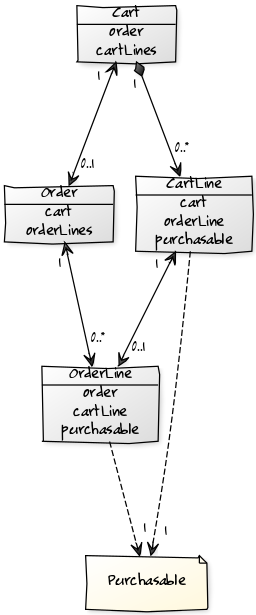
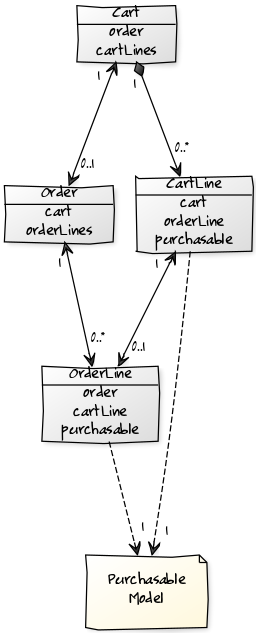
Updated docu book

Changed region(s): [[0.0, 0.0, 1.0, 1.0], [0.6562, 0.6179, 0.6875, 0.7106], [0.3438, 0.1854, 0.375, 0.2163]]

diff --git a/docs/book/product-architecture.md b/docs/book/product-architecture.md
@@ -9,8 +9,200 @@ where you will be able to modify the model as much as you need.
 
 ## Purchasable
 
+Because you should be able to add anything both a product or a variant in your
+cart, we created the interface `Purchasable`. A purchasable is an object (any)
+you can add into your cart.
+
+In Elcodi we have implemented two completed classes implementing this interface:
+Product and Variant. Both implementations are part of the Product component, and
+composes all the needed structure to maintain all kind of products and
+variations of this.
+
+## Product
+
+The main entity of this component. A product is what you are going to sell, no
+matter what it is and not taking in account variations of this. For example, our
+product could be a simple T-shirt. No color, no size, just a simple T-shirt.
+
+Each product contains all information related to that element, like price, some
+dimensions (all of them optional, of course), a description and a name, a SKU,
+the stock of that object, and some extra properties. All you need to make this 
+element unique enough.
+
+You can create a new Product like this.
+
+``` php
+use Elcodi\Component\Product\Entity\Product;
+
+$product = new Product();
+$product
+    ->setSku('123456789')
+    ->setStock(4)
+    ->setName('Strawberry cake')
+    ->setDescription('This is a strawberry cake');
+```
+
+Of course, the right way in Elcodi is always using factories instead of creating
+new instances by hand.
+
+``` php
+$product = $this
+    ->productFactory
+    ->create()
+    ->setName('Strawberry cake')
+    ->setDescription('This is a strawberry cake');
+```
+
+This service should have this dependency injection definition
+
+``` yaml
+services:
+    my_service:
+        class: My\Service\Namespace
+        arguments:
+            - @elcodi.factory.product
+```
+
+Some times our E-commerce implementation only requires this infrastructure. If
+you sell for example single cakes, then each cake is a product, and that should
+be enough. Don't over-engineer your domain and project too much.
+
+In other cases, for example if your e-commerce is selling some retail, then each
+Product will have some variations. Let's see what a variation is and how we can
+implement it in Elcodi.
+
 ## Variant
 
-## Attributes and Values
+A Variant is a simple variation of a Product. Returning to the example of
+T-shirts, maybe you want to sell the same T-shirt in several colors, several
+sizes and several logos behind it.
 
-##
+One option is having one single product per each combination, and that would be
+a good approach indeed, but then you have no way of controlling all products
+that belong to the same family. For example, if all variations have the same
+price then you should add it several times in several instances. As soon as this
+price changes, then you need to change it all around.
+
+Bad choice, right?
+
+If you have only one Product called T-shirt and you create the right structure
+for maintaining some Attributes and some Values, then you can create several
+Variants, each one containing one or more Values. Because a Variant is a
+Purchasable as well, then you can add them as well in your Cart.
+
+First of all, let's see how to create a variant, assuming we have the previous
+product created.
+
+``` php
+use Elcodi\Component\Product\Entity\Product;
+use Elcodi\Component\Product\Entity\Variant;
+
+$product = new Product();
+$product
+    ->setName('T-shirt, Dora the explorer')
+    ->setDescription('T-shirt of Dora');
+    
+$variant = new Variant
+$variant
+    ->setSku('12341234')
+    ->setStock(10)
+    ->setName('Blue XL T-shirt with the logo')
+    ->setProduct($product);
+```
+
+Of course, the right way in Elcodi is always using factories instead of creating
+new instances by hand.
+
+``` php
+$product = $this
+    ->productFactory
+    ->create()
+    ->setName('T-shirt, Dora the explorer')
+    ->setDescription('T-shirt of Dora');
+    
+$variant = $this
+    ->variantFactory
+    ->create()
+    ->setSku('12341234')
+    ->setStock(10)
+    ->setName('Blue XL T-shirt with the logo')
+    ->setProduct($product);
+```
+
+This service should have this dependency injection definition
+
+``` yaml
+services:
+    my_service:
+        class: My\Service\Namespace
+        arguments:
+            - @elcodi.factory.product
+            - @elcodi.factory.variant
+```
+
+In fact, that code is not useful at all, so none of these variants have
+attributes. Next step, creating a map of configurations for these Variants.
+
+## Attributes
+
+A variant is composed by different attribute values. Let's check it out by using
+the last example. T-shirt of Dora the explorer is available in colors blue, red
+and green. Each one can be purchased in several sizes: S, M and L.
+
+Each Variant is a Product and one of each attribute, called Value. So, there is
+one Variant that will have internally the Value blue of the Attribute color, and
+the Value S of the Attribute Size.
+
+Assuming the piece of code we did before about product and variant...
+
+``` php
+$product = //;
+$variant = //;
+
+$attribute = $this
+    ->attributeFactory
+    ->create()
+    ->setName('size');
+    
+$value = $this
+    ->valueFactory
+    ->create()
+    ->setValue('S')
+    ->setAttribute($attribute);
+
+$variant->setValue($value);
+```
+
+As you can see, the relation is done between the Attribute and the Value, but
+because one Value can only have one Attribute, then the relation is done as well
+between the Variant and the Attribute.
+
+``` php
+$attribute = $variant
+    ->getValue()
+    ->getAttribute();
+```
+
+## Manufacturer
+
+A product (and because a Product is always the master piece of any purchasable)
+can have a manufacturer. The relation is easy and simple indeed, so there is no
+much need of explaining how to work with this entity.
+
+``` php
+$product = //;
+
+$manufacturer = $this
+    ->manufacturerFactory
+    ->create()
+    ->setName('Levis');
+    
+$product->setManufacturer($manufacturer);
+```
+
+## Categories
+
+There is an entire chapter for that in Elcodi's book. Please, read it carefully
+in order to be able to work properly with categories in your project
+
+* [Category Architecture](category-architecture.md)

diff --git a/docs/book/category-architecture.md b/docs/book/category-architecture.md
@@ -1,0 +1,51 @@
+# Category Architecture
+
+Elcodi brings you a small and simple category structure. Small and simple
+doesn't mean bad and useless, but with sufficient quality to be useful and 
+scalable for any E-commerce.
+
+![Category model](../image/model/category.png)
+
+## Category tree
+
+The main service of the component, and given that you have your categories built
+properly, is the service Category Tree. This service is only intended to create
+a basic structure of categories, ready to be saved in a plain way.
+
+Imagine all steps in each Request without using this service.
+
+* I want all categories
+* I need to get them all from Database using Doctrine
+* I need to sort them
+* I need to filter them
+* I need to organize them using the proper hierarchy
+
+While there are no changes in your database, these bunch of actions produce the
+same result, so why we do it once and again? That's senseless.
+
+This service will do this action only once and will save it in your cache
+system in a very reduced and simplified way. Of course the service will not save
+entities in cache but an array.
+
+After that, each request will only require that structure saved in cache,
+reducing this way the resources spend by the system.
+
+## Flushing
+
+As soon as your model changes, then you must flush your cache layer. At the
+moment this happens only when category or product table changes.
+
+* Of course, if category changes, then the cached item should be flushed in 
+order to be rebuilt again.
+* Because some categories may not appear because of no products are attached to
+it, if the table products changes then the cached tree should be flushed as
+well. There is a flag that allow categories to appear even if they don't have
+products, so tree will be flushed only when this flag is disabled.
+
+## Overwrite the service
+
+Each project may add their own login about how categories should be stored.
+That's a fact indeed. So, overwriting this service is as easier as overwriting
+any other service. Please, follow these cookbooks.
+
+* [Overwrite a service](../cookbook/overwrite/overwrite-a-service.md)

diff --git a/yuml.md b/yuml.md
@@ -9,8 +9,8 @@ To build each image, append the value of the definition after
 
 ### docs/image/model/cart-component.png
 
-[CartLine|cart;orderLine;purchasable]-1>[note: Purchasable{bg:cornsilk],  
-[OrderLine|order;cartLine;purchasable]-1>[note: Purchasable{bg:cornsilk],  
+[CartLine|cart;orderLine;purchasable]-1>[note: Purchasable Model{bg:cornsilk],  
+[OrderLine|order;cartLine;purchasable]-1>[note: Purchasable Model{bg:cornsilk],  
 [Cart|order;cartLines]1++-0..*>[CartLine],  
 [Order|cart;orderLines]<1-0..*>[OrderLine],  
 [Cart]<1-0..1>[Order],  
@@ -20,14 +20,14 @@ To build each image, append the value of the definition after
 
 ### docs/image/model/cart-cartline.png
 
-[CartLine|cart;orderLine;purchasable]-1>[note: Purchasable{bg:cornsilk],  
+[CartLine|cart;orderLine;purchasable]-1>[note: Purchasable Model{bg:cornsilk],  
 [Cart|order;cartLines]1++-0..*>[CartLine]
 
 ![Cart Cartline model](docs/image/model/cart-cartline.png)
 
 ### docs/image/model/order-orderline.png
 
-[OrderLine|order;cartLine;purchasable]-1>[note: Purchasable{bg:cornsilk],  
+[OrderLine|order;cartLine;purchasable]-1>[note: Purchasable Model{bg:cornsilk],  
 [Order|cart;orderLines]<1-0..*>[OrderLine]
 
 ![Order Orderline model](docs/image/model/order-orderline.png)
@@ -43,3 +43,11 @@ To build each image, append the value of the definition after
 [Attribute]<1-*>[Value]
 
 ![Product component model](docs/image/model/product-component.png)
+
+### docs/image/model/category.png
+
+[Category|subCategories;parent;products],
+[Category]<1-*>[Category],
+[Category]<*-*>[Product]
+
+![Category model](docs/image/model/category.png)

diff --git a/docs/book/coupon-architecture.md b/docs/book/coupon-architecture.md
@@ -151,3 +151,8 @@ public function getMinimumPurchase()
 When a Coupon is intended to be applied in a Cart and the field `$rule` is not
 null, then this rules is applied. Of course, if the rule execution result is
 false, the coupon is refused.
+
+you can read some information about rules by following these links
+
+* [New in Symfony 2.4: The ExpressionLanguage Component](http://symfony.com/blog/new-in-symfony-2-4-the-expressionlanguage-component)
+* [ExpressionLanguage Symfony Component](http://symfony.com/doc/current/components/expression_language/index.html)

diff --git a/docs/book/processes.md b/docs/book/processes.md
@@ -183,9 +183,3 @@ credentials and the Symfony Security Component will do the rest.
 Related links
 
 * [Security Bundle Configuration](http://symfony.com/doc/current/reference/configuration/security.html)
-
-## Add a Product in our Cart
-## Remove a Product from our Cart
-## Add a Coupon in our Cart
-## Remove a Coupon from our Cart
-## Make a buy, step by step

diff --git a/docs/book/index.md b/docs/book/index.md
@@ -22,6 +22,7 @@ part of it by adding your own business logic.
 * [Dictionary](dictionary.md)
 * [Events](events.md)
 * [Product Architecture](product-architecture.md)
+* [Category Architecture](category-architecture.md)
 * [Cart Architecture](cart-architecture.md)
 * [Coupon Architecture](coupon-architecture.md)
 * [Plugins](plugins.md)
